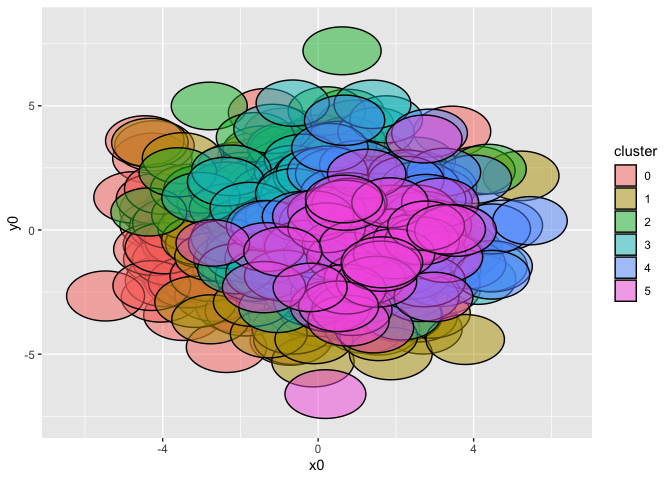
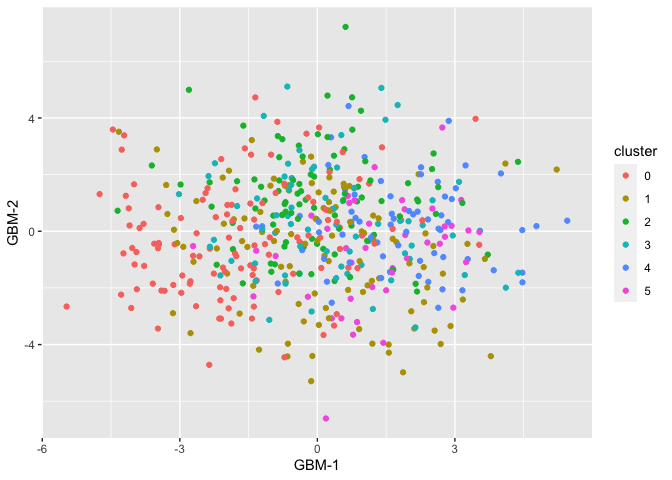
Adding imports/namespace

diff --git a/README.md b/README.md
@@ -11,7 +11,6 @@ From the R console, `devtools::install_github("phillipnicol/scGBM")`.
 
 ``` r
 library(scGBM)
-library(ggplot2)
 set.seed(1126490984)
 ```
 
@@ -47,6 +46,13 @@ out <- gbm.sc(Y,M=10)
     ## Iteration:  16 . Objective= -240267.4 
     ## Iteration:  17 . Objective= -240267
 
+To use the projection method (faster version based on subsampling), use
+
+``` r
+##Specify subsample size and number of cores
+out.proj <- gbm.sc(Y,M=10,subset=100,ncores=8) 
+```
+
 Cluster the cell scores using Seurat
 
 ``` r
@@ -64,7 +70,7 @@ Plot the scores and color by the assigned clustering:
 plot_gbm(out, cluster=Sco$seurat_clusters)
 ```
 
-![](README_files/figure-gfm/unnamed-chunk-5-1.png)<!-- -->
+![](README_files/figure-gfm/unnamed-chunk-6-1.png)<!-- -->
 
 Quantify the uncertainty in the low dimensional embedding:
 
@@ -93,11 +99,10 @@ head(out$se_V)
 You can visualize the uncertainty with ellipses around the points
 
 ``` r
-library(ggforce)
 plot_gbm(out, cluster=Sco$seurat_clusters, se=TRUE)
 ```
 
-![](README_files/figure-gfm/unnamed-chunk-7-1.png)<!-- -->
+![](README_files/figure-gfm/unnamed-chunk-8-1.png)<!-- -->
 
 Now we evaluate cluster stability using the cluster confidence index.
 First we need to define a function that takes as input a set of
@@ -122,21 +127,20 @@ cci <- CCI(out,cluster.orig=Sco$seurat_clusters, reps=10, cluster.fn = cluster_f
 ```
 
 ``` r
-library(pheatmap)
-pheatmap(cci$H.table,legend=TRUE, color=colorRampPalette(c("white","red"))(100),
+pheatmap::pheatmap(cci$H.table,legend=TRUE, color=colorRampPalette(c("white","red"))(100),
         breaks=seq(0,1,by=0.01),
         rownames=TRUE,
         colnames=TRUE)
 ```
 
-![](README_files/figure-gfm/unnamed-chunk-11-1.png)<!-- -->
+![](README_files/figure-gfm/unnamed-chunk-12-1.png)<!-- -->
 
 ``` r
 #Just the diagonal
 cci$cci.plot
 ```
 
-![](README_files/figure-gfm/unnamed-chunk-11-2.png)<!-- -->
+![](README_files/figure-gfm/unnamed-chunk-12-2.png)<!-- -->
 
 The heatmap shows there is significant overlap between the clusters.
 This makes sense because the data was simulated to have no latent
